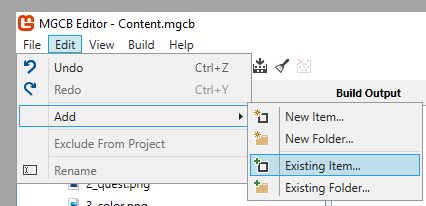
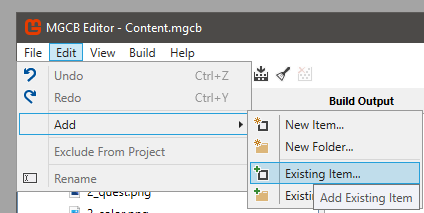
Updated images to new docs standard for Windows (#7276)
* Updated images to new docs standard.

Additional tasks:

* Update code docs to 3.8 standards
* removed any lingering "pipeline" references
* Removed redundant pipeline images

diff --git a/Documentation/articles/getting_started/3_adding_content.md b/Documentation/articles/getting_started/3_adding_content.md
@@ -22,11 +22,11 @@ Now open up your game project and look at the Solution explorer window. Expand t
 
 ![Open Content](~/images/getting_started/3_open_content.png)
 
-You should now see the Pipeline Editor window open up. If it does not open up (you see a text file open), then you can right-click on **Content.mgcb** and select **Open With**, then select **MonoGame Pipeline** in the list, click **Set as Default** and then click **OK**.
+You should now see the MGCB Editor window open up. If it does not open up (you see a text file open), then you can right-click on **Content.mgcb** and select **Open With**, then select **mgcb-editor-wpf** in the list, click **Set as Default** and then click **OK**.
 
-> If you do not see the **MonoGame Pipeline Tool** option when you right-click and select **Open With**, then please review the [Tools documentation](~/articles/tools/tools.md) for installing the Pipeline tool for your operating system.
+> If you do not see the **mgcb-editor-wpf** option when you right-click and select **Open With**, then please review the [Tools documentation](~/articles/tools/tools.md) for installing the MGCB Editor tool for your operating system.
 
-![Pipeline Editor](~/images/getting_started/3_pipeline_tool.png)
+![MGCB Editor](~/images/getting_started/3_mgcb_editor_tool.png)
 
 Your game content is managed from this external tool. You can add content to your game in one of the following ways:
 
@@ -42,7 +42,7 @@ You should now be prompted to select a file. Select the “ball.png” image tha
 
 ![Copy Content](~/images/getting_started/3_copy_content.png)
 
-Now click **Save** toolbar button and close the Pipeline tool.
+Now click **Save** toolbar button and close the MGCB Editor tool.
 
 ![Save Content](~/images/getting_started/3_save_content.png)
 
@@ -57,7 +57,8 @@ public class Game1 : Game
 {
     Texture2D ballTexture;
 
-    GraphicsDeviceManager graphics;
+    private GraphicsDeviceManager _graphics;
+    private SpriteBatch _spriteBatch;
 ```
 
 Next find the LoadContent method and use it to retrieve the "ball" sprite from the Content project into the **ballTexture** private variable using the **Content.Load()** method and specifying the type of data we are requesting, in this case a Texture2D image:
@@ -66,7 +67,7 @@ Next find the LoadContent method and use it to retrieve the "ball" sprite from t
 protected override void LoadContent()
 {
     // Create a new SpriteBatch, which can be used to draw textures.
-    spriteBatch = new SpriteBatch(GraphicsDevice);
+    _spriteBatch = new SpriteBatch(GraphicsDevice);
 
     // TODO: use this.Content to load your game content here
     ballTexture = Content.Load<Texture2D>("ball");
@@ -91,9 +92,9 @@ protected override void Draw(GameTime gameTime)
     graphics.GraphicsDevice.Clear(Color.CornflowerBlue);
 
     // TODO: Add your drawing code here
-    spriteBatch.Begin();
-    spriteBatch.Draw(ballTexture, new Vector2(0, 0), Color.White);
-    spriteBatch.End();
+    _spriteBatch.Begin();
+    _spriteBatch.Draw(ballTexture, new Vector2(0, 0), Color.White);
+    _spriteBatch.End();
 
     base.Draw(gameTime);
 }

diff --git a/Documentation/articles/getting_started/4_adding_basic_code.md b/Documentation/articles/getting_started/4_adding_basic_code.md
@@ -20,8 +20,8 @@ Next let us initialize them. Find the **Initialize** method and add the followin
 
 ```csharp
 // TODO: Add your initialization logic here
-ballPosition = new Vector2(graphics.PreferredBackBufferWidth / 2,
-    graphics.PreferredBackBufferHeight / 2);
+ballPosition = new Vector2(_graphics.PreferredBackBufferWidth / 2,
+_graphics.PreferredBackBufferHeight / 2);
 ballSpeed = 100f;
 
 base.Initialize();
@@ -34,7 +34,7 @@ The last thing we need to do is modify the position the ball is getting drawn to
 Find the **Draw** method and update the **spriteBatch.Draw** call to:
 
 ```csharp
-spriteBatch.Draw(ballTexture, ballPosition, Color.White);
+_spriteBatch.Draw(ballTexture, ballPosition, Color.White);
 ```
 
 Now run the game.
@@ -44,7 +44,7 @@ Now run the game.
 As you can see the ball is not quite centered yet. This is because MonoGame uses (0, 0) as the origin point of the image for drawing by default (Top Left hand corner). We can modify this by taking into account the height and width of the image when drawing, as follows:
 
 ```csharp
-spriteBatch.Draw(
+_spriteBatch.Draw(
     ballTexture,
     ballPosition,
     null,

diff --git a/Documentation/articles/content/adding_ttf_fonts.md b/Documentation/articles/content/adding_ttf_fonts.md
@@ -7,11 +7,9 @@ MonoGame supports more than one method of using fonts, the following is an expla
 To be able to use a TrueType font, MonoGame requires the TrueType font file and a .spritefont file.
 TrueType fonts may be installed on the system, or added manually in the same directory as the .spritefont file.
 
-1. Create the .spritefont file.
+1. Create the .spritefont file by selecting "Edit -> Add -> New Item" from the MGCB Editor menu, then select **SpriteFont Description** from the list and click **Create**.
 
-  ![Adding TTF fonts step 1](~/images/adding_ttf_fonts_step_1.PNG)
-
-  ![Adding TTF fonts step 2](~/images/adding_ttf_fonts_step_2.PNG)
+  ![Adding TTF fonts step 2](~/images/content/adding_ttf_fonts.PNG)
 
 1. Open the newly created .spritefont file in your text editor of choice, find this line and change it to your selected .ttf font.
 If the font is installed on the system, just type the name of the font.

diff --git a/Documentation/articles/introduction/requirements.md b/Documentation/articles/introduction/requirements.md
@@ -28,7 +28,7 @@ You will need a copy of [Visual Studio for Mac](https://visualstudio.microsoft.c
 
 Additionally, you will need to install the [.NET Core SDK from here](https://dotnet.microsoft.com/download), SDK Versions 3.1 and above.
 
-For editing content you also need the [MGCB Editor](#monogame-content-pipeline-tool-mgcb-editor) GUI to manage your content.
+For editing content you also need the [MGCB Editor](~/articles/tools/mgcb_editor.md) GUI to manage your content.
 
 ## For desktop platforms using only the CLI (all supported operating systems)
 
